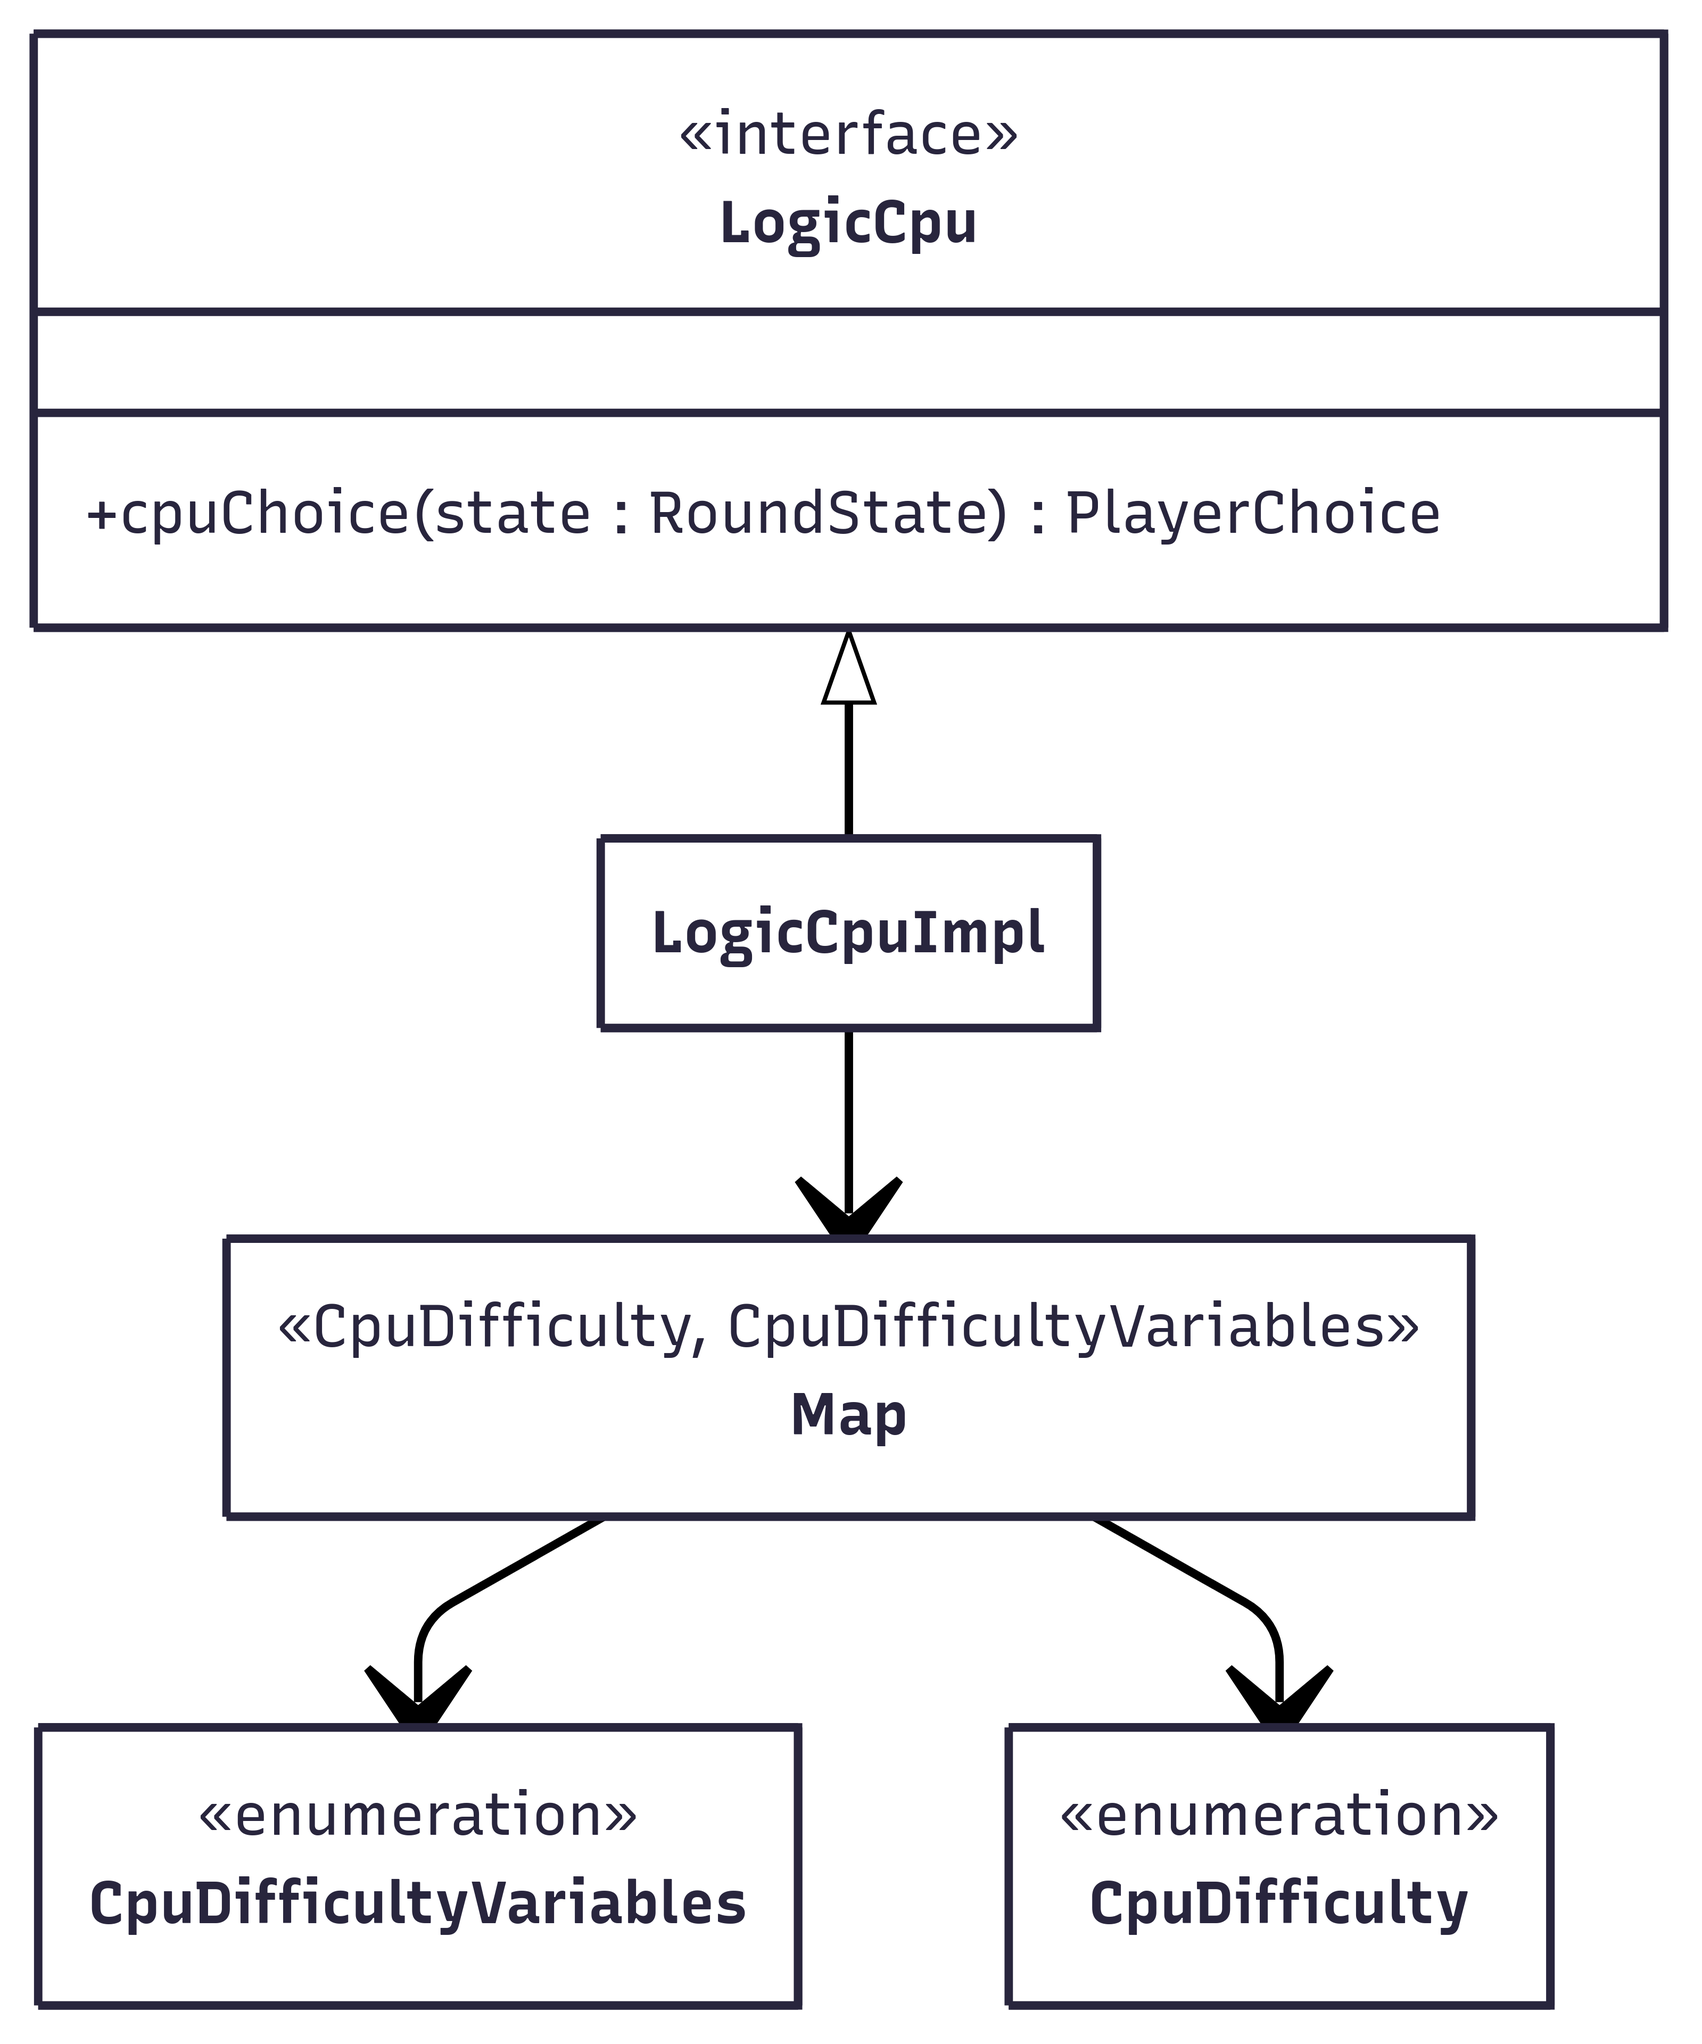
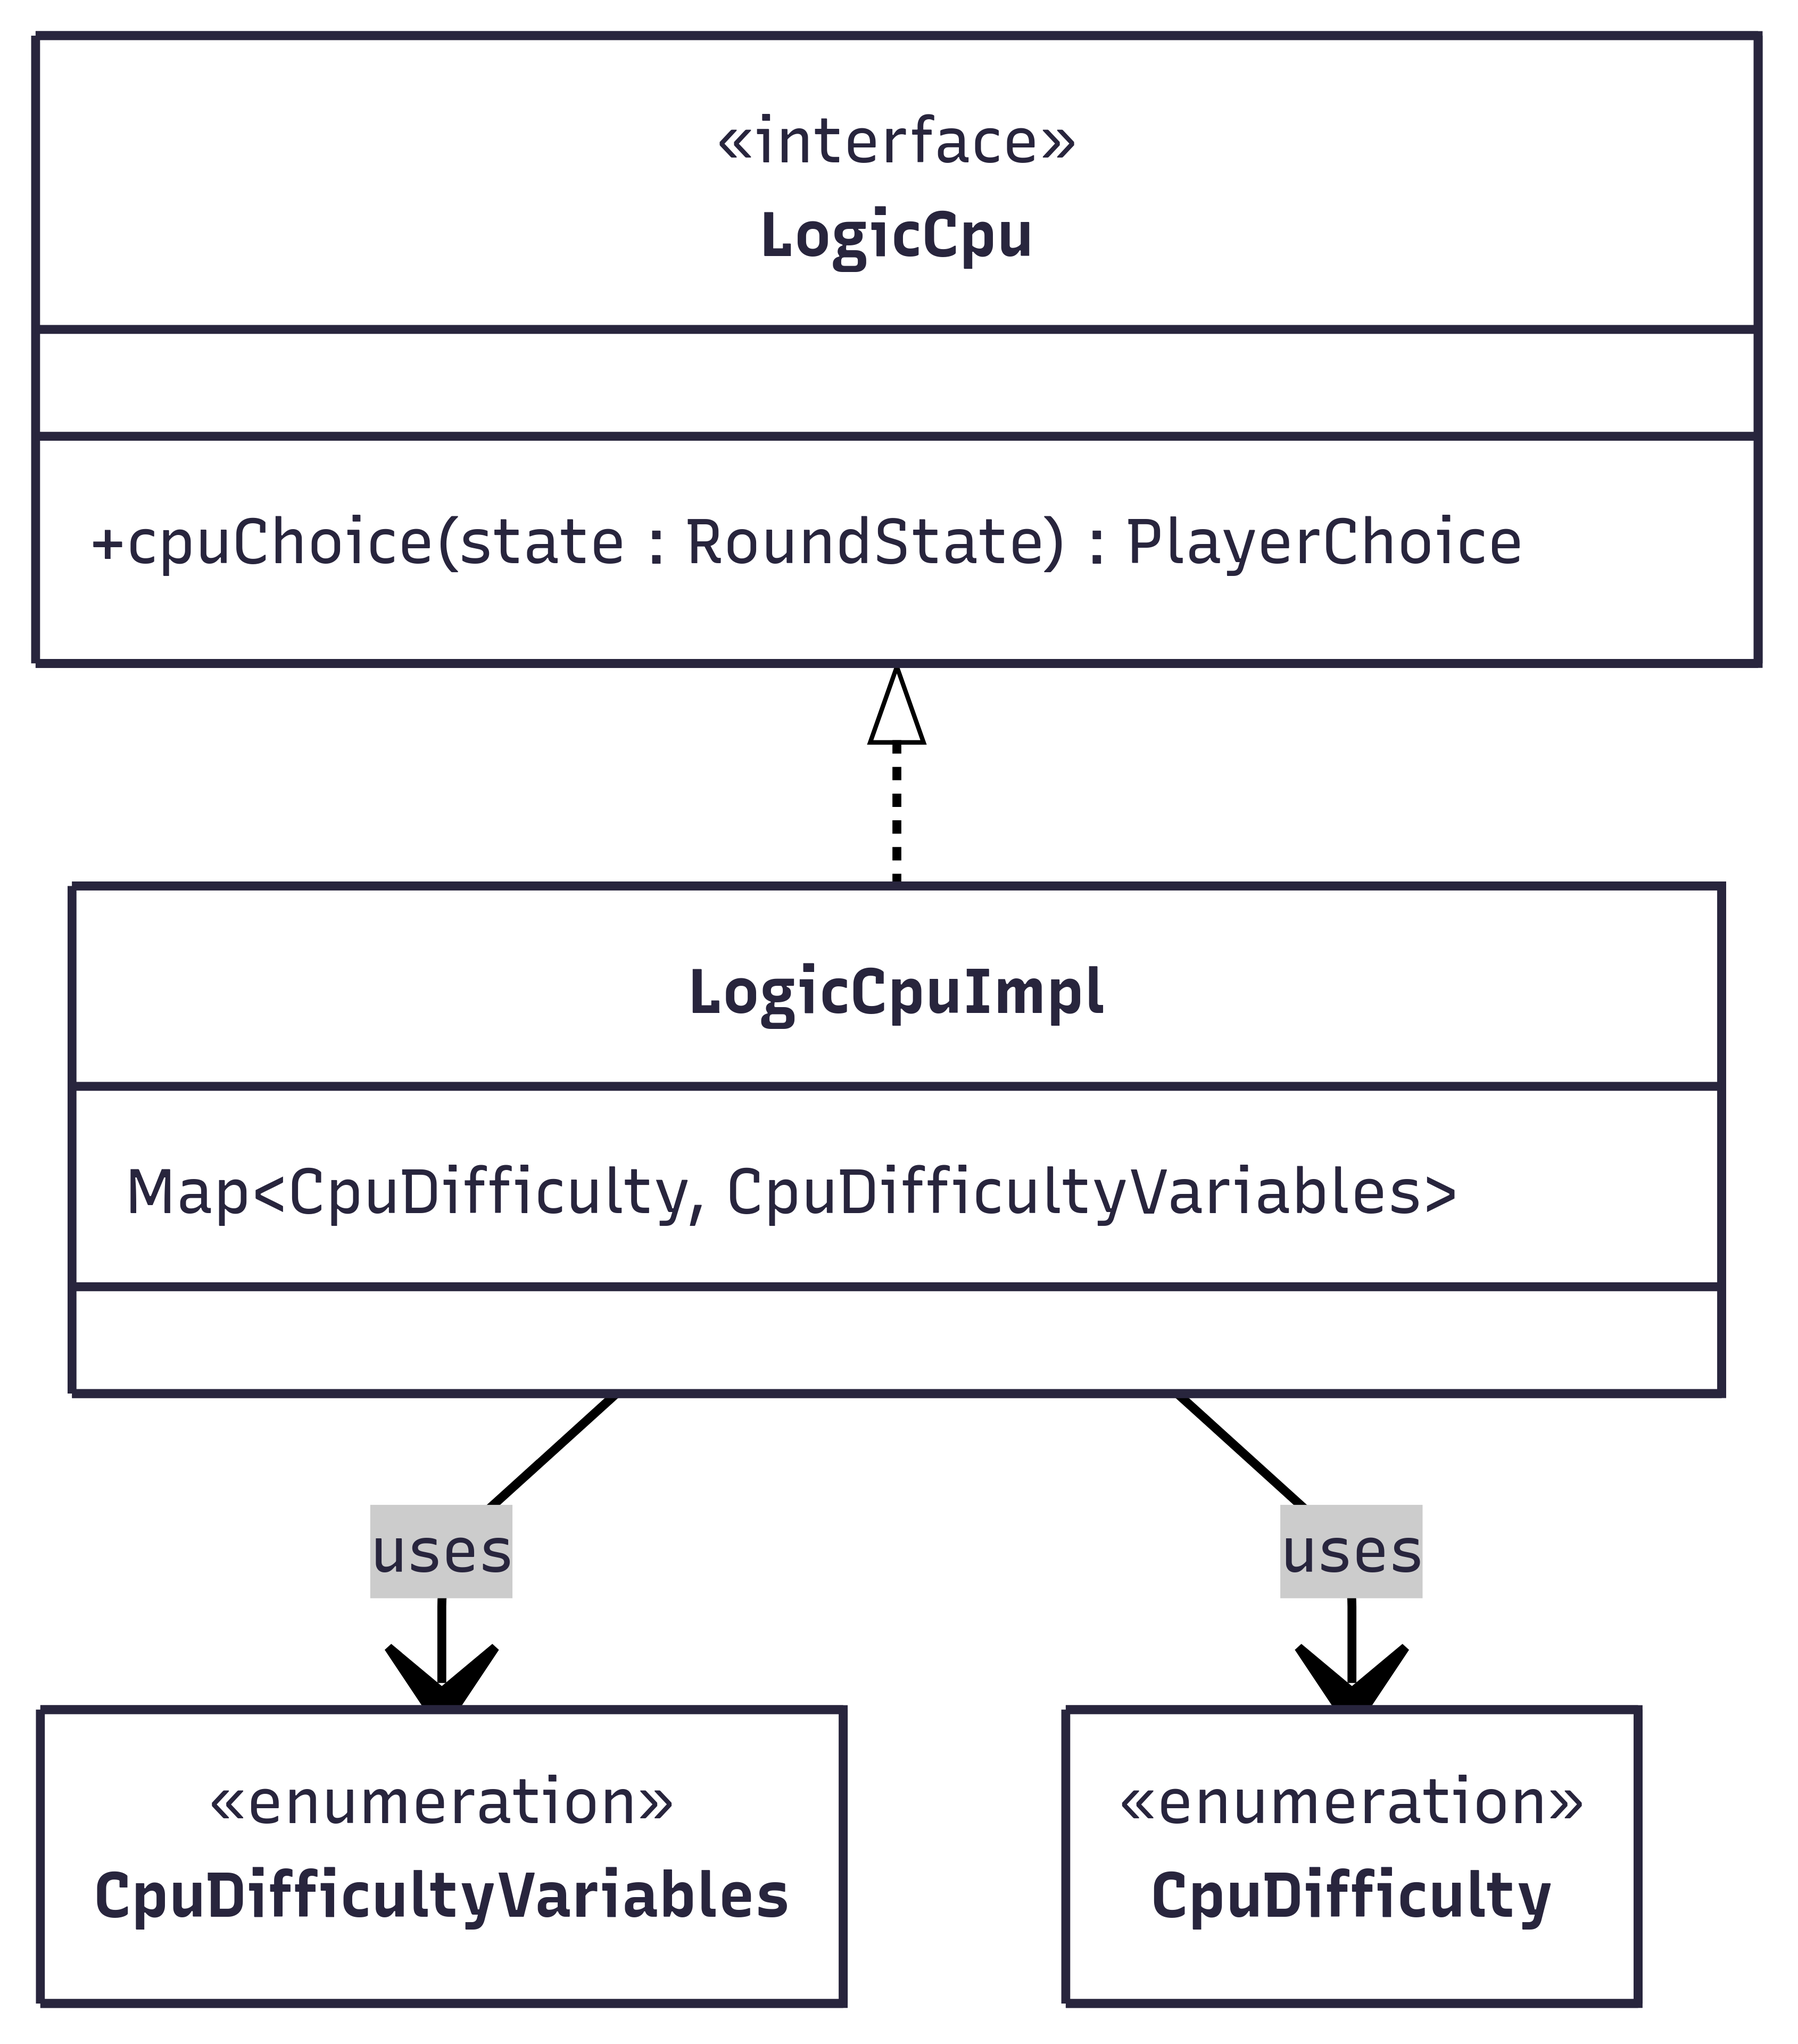
Update

Changed region(s): [[0.031, 0.4062, 0.9597, 0.9375], [0.0, 0.0625, 0.9906, 0.375]]

diff --git a/13-template.tex b/13-template.tex
@@ -244,33 +244,48 @@ Una versione schematizzata dell'architettura adoperata ~\ref{img:arch}:
 \centering{}
 \includegraphics[width=\textwidth]{img/UML_PlayerCpu.png}
 \caption{Rappresentazione UML}
-\label{img:strategy}
+\label{img:PlayerCpu}
 \end{figure}
 
-\paragraph{Problema} Si vogliono creare giocatori che danno scelte automatizzate.
+\paragraph{Problema}: Si vogliono creare giocatori che danno scelte automatizzate.
 
-\paragraph{Soluzione} Ho creato la classe PlayerCpu come estensione della classe rappresentante i giocatori reali (PlayerInRound), la quale ha al suo interno un'istanza di LogicCpuImpl che le permette di assumere scelte automatizzate basate sulle informazioni della partita tramite il metodo cpuChoice().
-In questo modo PlayerCpu funziona come un'effettiva CPU in grado di prendere decisioni autonomamente.
-Questa implementazione permette di tenere distinti i PlayerCpu dalle proprie logiche rendendo il tutto più modulare.
+\paragraph{Soluzione}: Ho creato la classe \texttt{PlayerCpu} come estensione della classe rappresentante i giocatori reali \texttt{PlayerInRound}, la quale ha al suo interno un'istanza di \texttt{LogicCpuImpl} che le permette di assumere scelte automatizzate basate sulle informazioni della partita tramite il metodo cpuChoice().
+In questo modo \texttt{PlayerCpu} funziona come un'effettiva CPU in grado di prendere decisioni autonomamente.
+Questa implementazione permette di tenere distinti i \texttt{PlayerCpu} dalle proprie logiche rendendo il tutto più modulare.
 
-\paragraph{Uso di pattern} Nessuno.
+\paragraph{Uso di pattern}: Nessuno.
 
-\subsubsection{Creazione di più diificoltà per la LogicCpuImpl}
+\subsubsection{Creazione di più difficoltà per la LogicCpuImpl}
 
 \begin{figure}[H]
 \centering{}
-\includegraphics[width=\textwidth]{img/UML_LogicCpu.png}
+\includegraphics[height=\textwidth]{img/UML_LogicCpu.png}
 \caption{Rappresentazione UML}
-\label{img:template}
+\label{img:LogicCpu}
 \end{figure}
 
-\paragraph{Problema} Si vogliono creare più difficoltà per la LogicCpuImpl.
+\paragraph{Problema}: Si vogliono creare più difficoltà per la \texttt{LogicCpuImpl}.
 
-\paragraph{Soluzione} Ho creato delle enumerazioni chiamate CpuDifficulty e CpuDifficultyVariables che rispettivamente contengono la denominazione delle difficoltà e le variabili di difficoltà utilizzate nella LogicCpu.
-In questo modo tramite una mappa interna a LogicCpu vengono abbinate le denominazioni delle difficoltà con i corrispettivi valori per le variabili che verranno usati all'interno di LogicCpu.
-Questa implementazione modulata rende l'aggiunta di nuove difficoltà e/o variabili di difficoltà in LogicCpu facile e chiara.
+\paragraph{Soluzione}: Ho creato delle enumerazioni chiamate \texttt{CpuDifficulty} e \\\texttt{CpuDifficultyVariables} che rispettivamente contengono la denominazione delle difficoltà e le variabili di difficoltà utilizzate nella \texttt{LogicCpuImpl}.
+In questo modo tramite una mappa interna a \texttt{LogicCpuImpl} vengono abbinate le denominazioni delle difficoltà con i corrispettivi valori per le variabili che verranno usati all'interno di \texttt{LogicCpuImpl}.
+Questa implementazione modulata rende l'aggiunta di nuove difficoltà e/o variabili di difficoltà in \texttt{LogicCpuImpl} facile e chiara.
 
-\paragraph{Uso di pattern} Nessuno.
+\paragraph{Uso di pattern}: Nessuno.
+
+\subsubsection{Iterazione dei \texttt{Round} durante la partita}
+
+\begin{figure}[H]
+\centering
+\includegraphics[height=\textwidth]{img/UML_Game.png}
+\caption{Rappresentazione UML}
+\label{img:Game}
+\end{figure}
+
+\paragraph{Problema}: Si vuole passare da un \texttt{Round} ad un altro, avendo a disposizione le informazioni dei tali e delle impostazioni della partita.
+
+\paragraph{Soluzione}: Ho creato l'interfaccia \texttt{Game} che estende \texttt{Iterator<Round>}. In questo modo passare da un round ad un altro avendo a disposizione tutte le loro informazioni.
+
+\paragraph{Uso di pattern}: \texttt{Iterator}.
 
 \chapter{Sviluppo}
 \section{Testing automatizzato}
@@ -318,13 +333,21 @@ Il testing automatizzato è stato effettuato con Junit, di seguito i vari test d
 
 Utilizzati in vari punti. Un esempio è \url{https://github.com/Wanes01/OOP24-jvmt/blob/9868185e06e775b7011bac211c5de46acbe0aa47/src/main/java/jvmt/controller/impl/LeaderboardControllerImpl.java#L48C1-L53C6}
 
+\subsubsection{Utilizzo del pattern Iterator}
+
+\url{https://github.com/Wanes01/OOP24-jvmt/blob/ccdbae592c490476d3226350cbdbbeb99e32a596/src/main/java/jvmt/model/game/api/Game.java#L19}
+
+\subsubsection{Utilizzo di Optional}
+
+\url{https://github.com/Wanes01/OOP24-jvmt/blob/ccdbae592c490476d3226350cbdbbeb99e32a596/src/main/java/jvmt/controller/impl/GameplayControllerImpl.java#L197-L206}
+
 \chapter{Commenti finali}
 
 \section{Autovalutazione e lavori futuri}
 
 \subsection{Filippo Gaggi}
 
-Ho dato del mio meglio per fare la mia parte in questo progetto. Nonostante non abbia utilizzato tecniche avanzate di Java quali i pattern o i generici, ritengo di aver scritto codice pulito e ben comprensibile.
+Ho dato del mio meglio per fare la mia parte in questo progetto. Nonostante non abbia utilizzato molte tecniche avanzate di Java, ritengo di aver scritto codice pulito e ben comprensibile.
 Vado molto fiero della logica delle CPU, la quale ha preso una moderata quantità tempo per farla comportare come desideravo.
 Seppur non abbia brillato molto nella parte di model, mi sono impegnato quanto più potevo nei controller e nelle corrispettive pagine (Gameplay e Leaderboard), portando un risultato che reputo più che apprezzabile sia dal lato grafico che dal lato del codice.
 Ritengo tutto sommato che il mio contributo per il gruppo sia stato importante anche se un po' grezzo e non troppo brillante.
